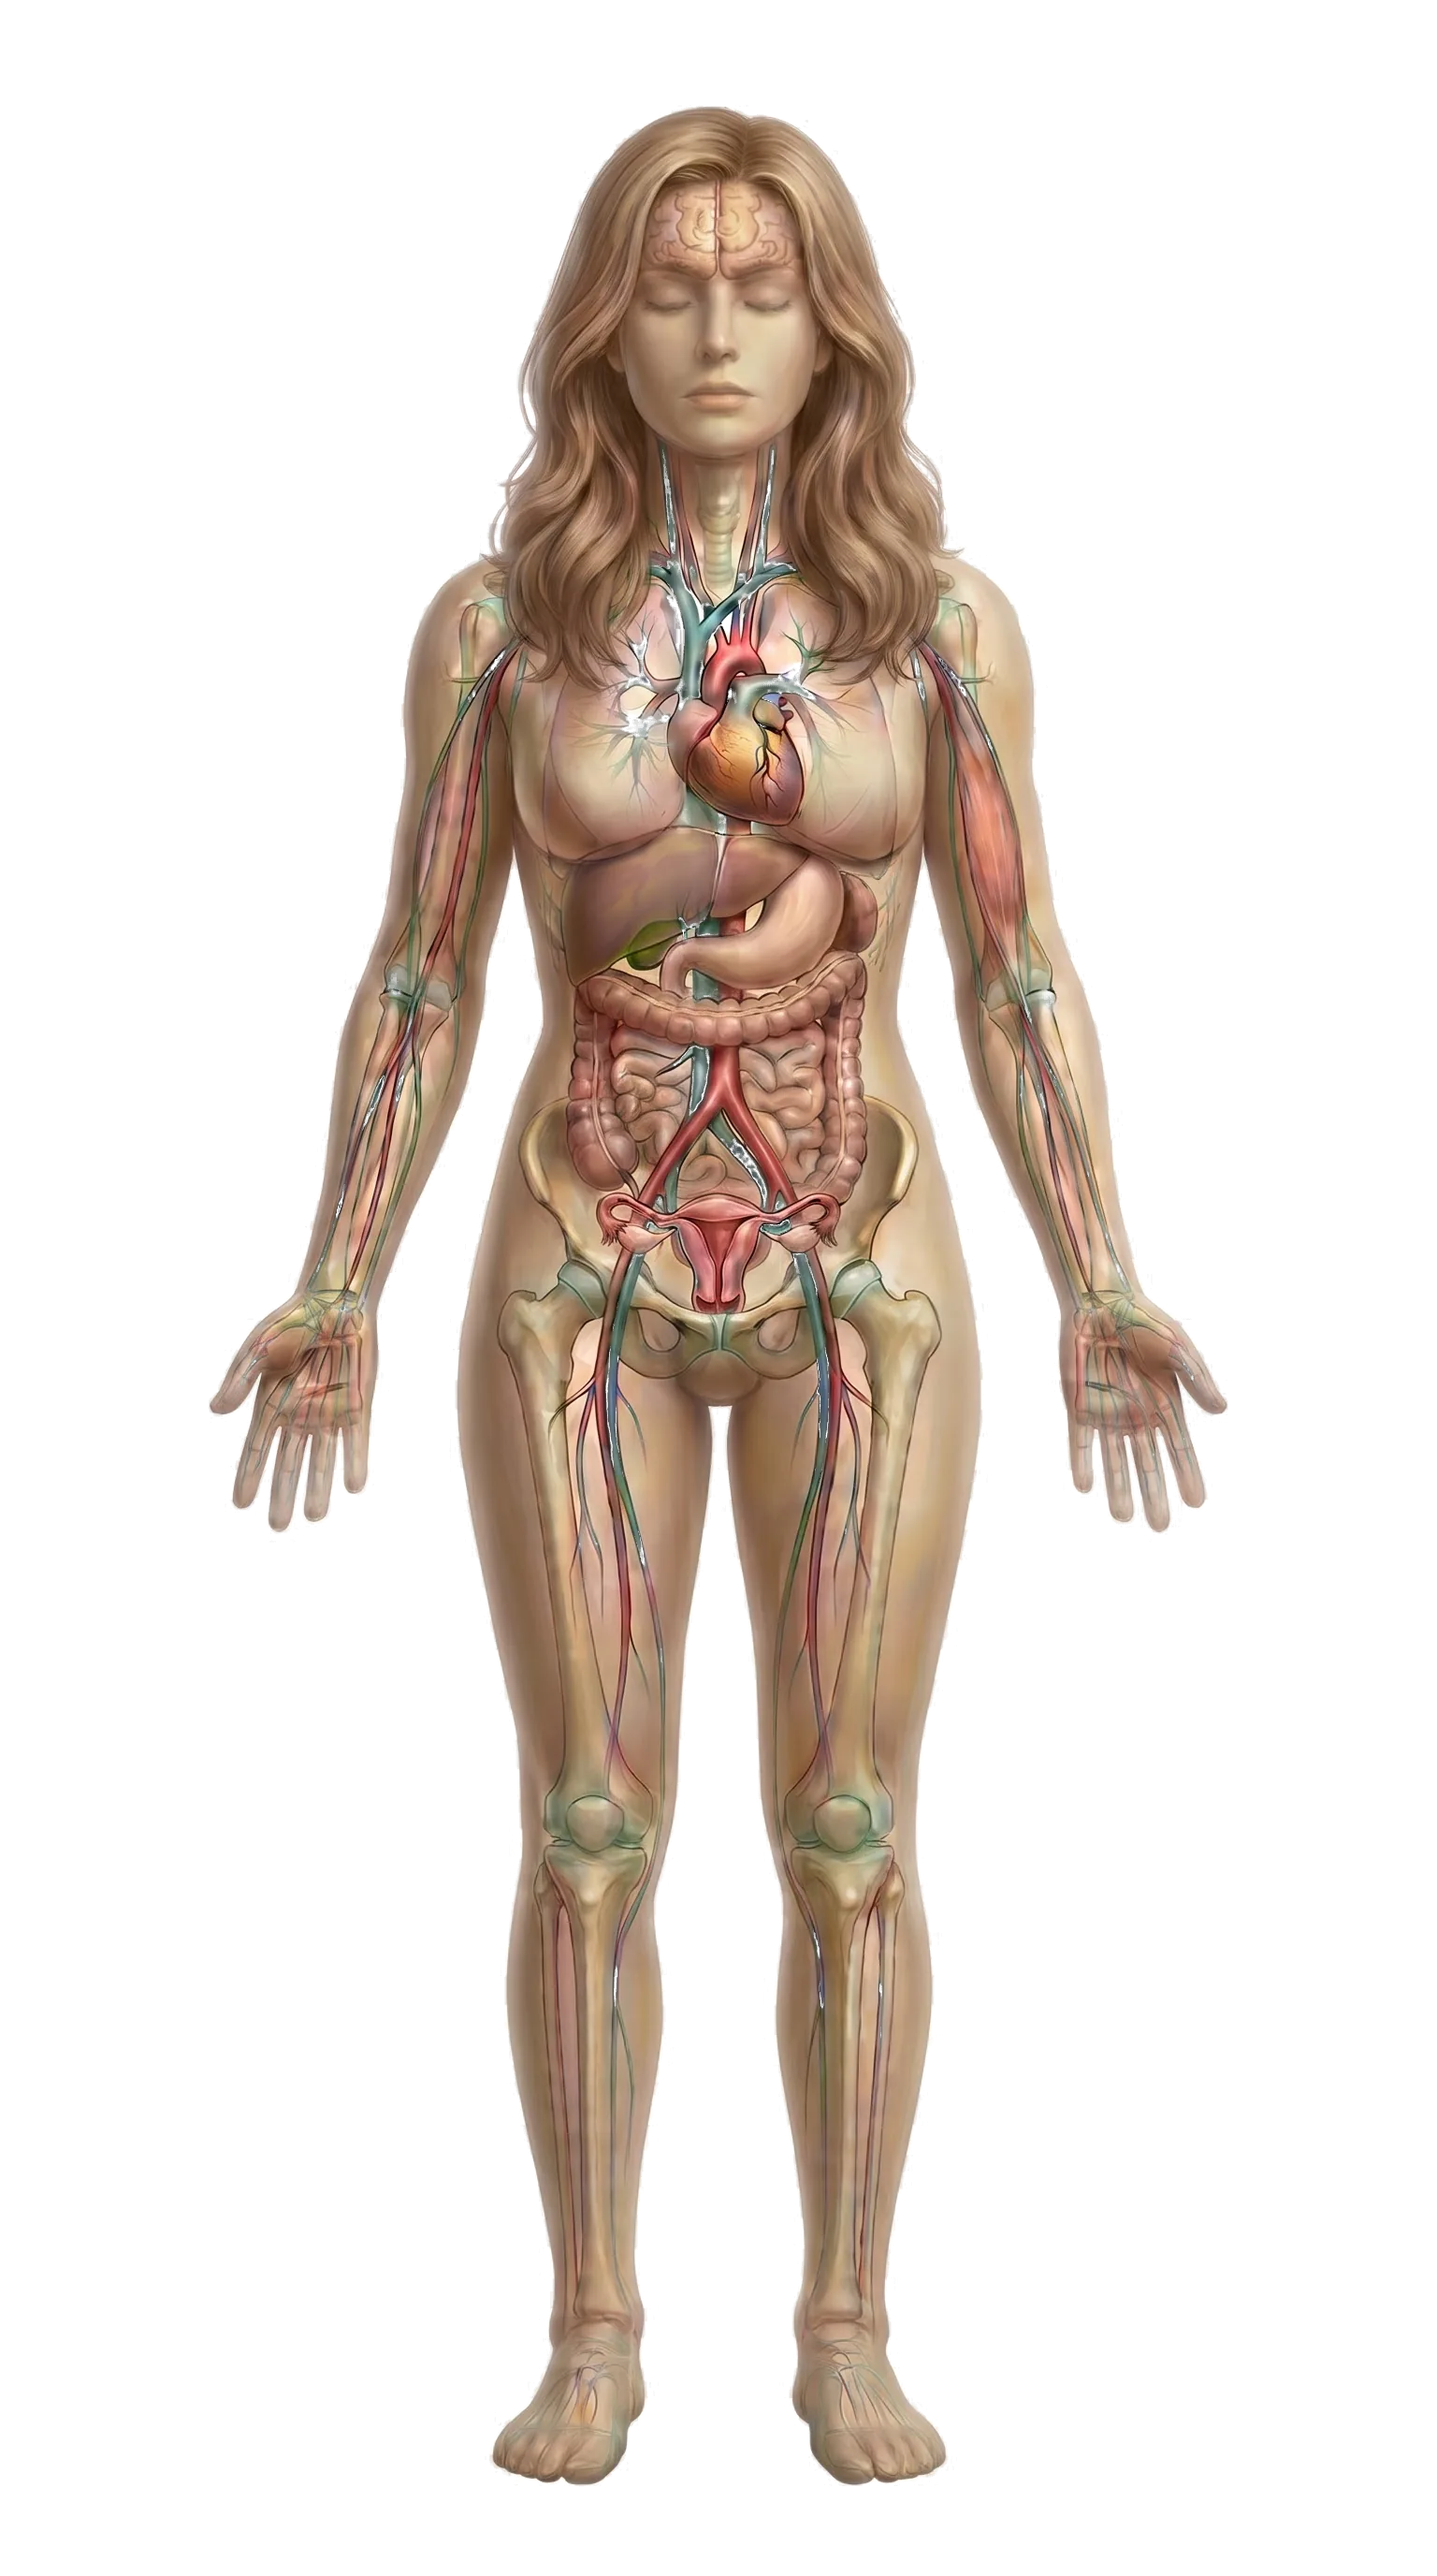
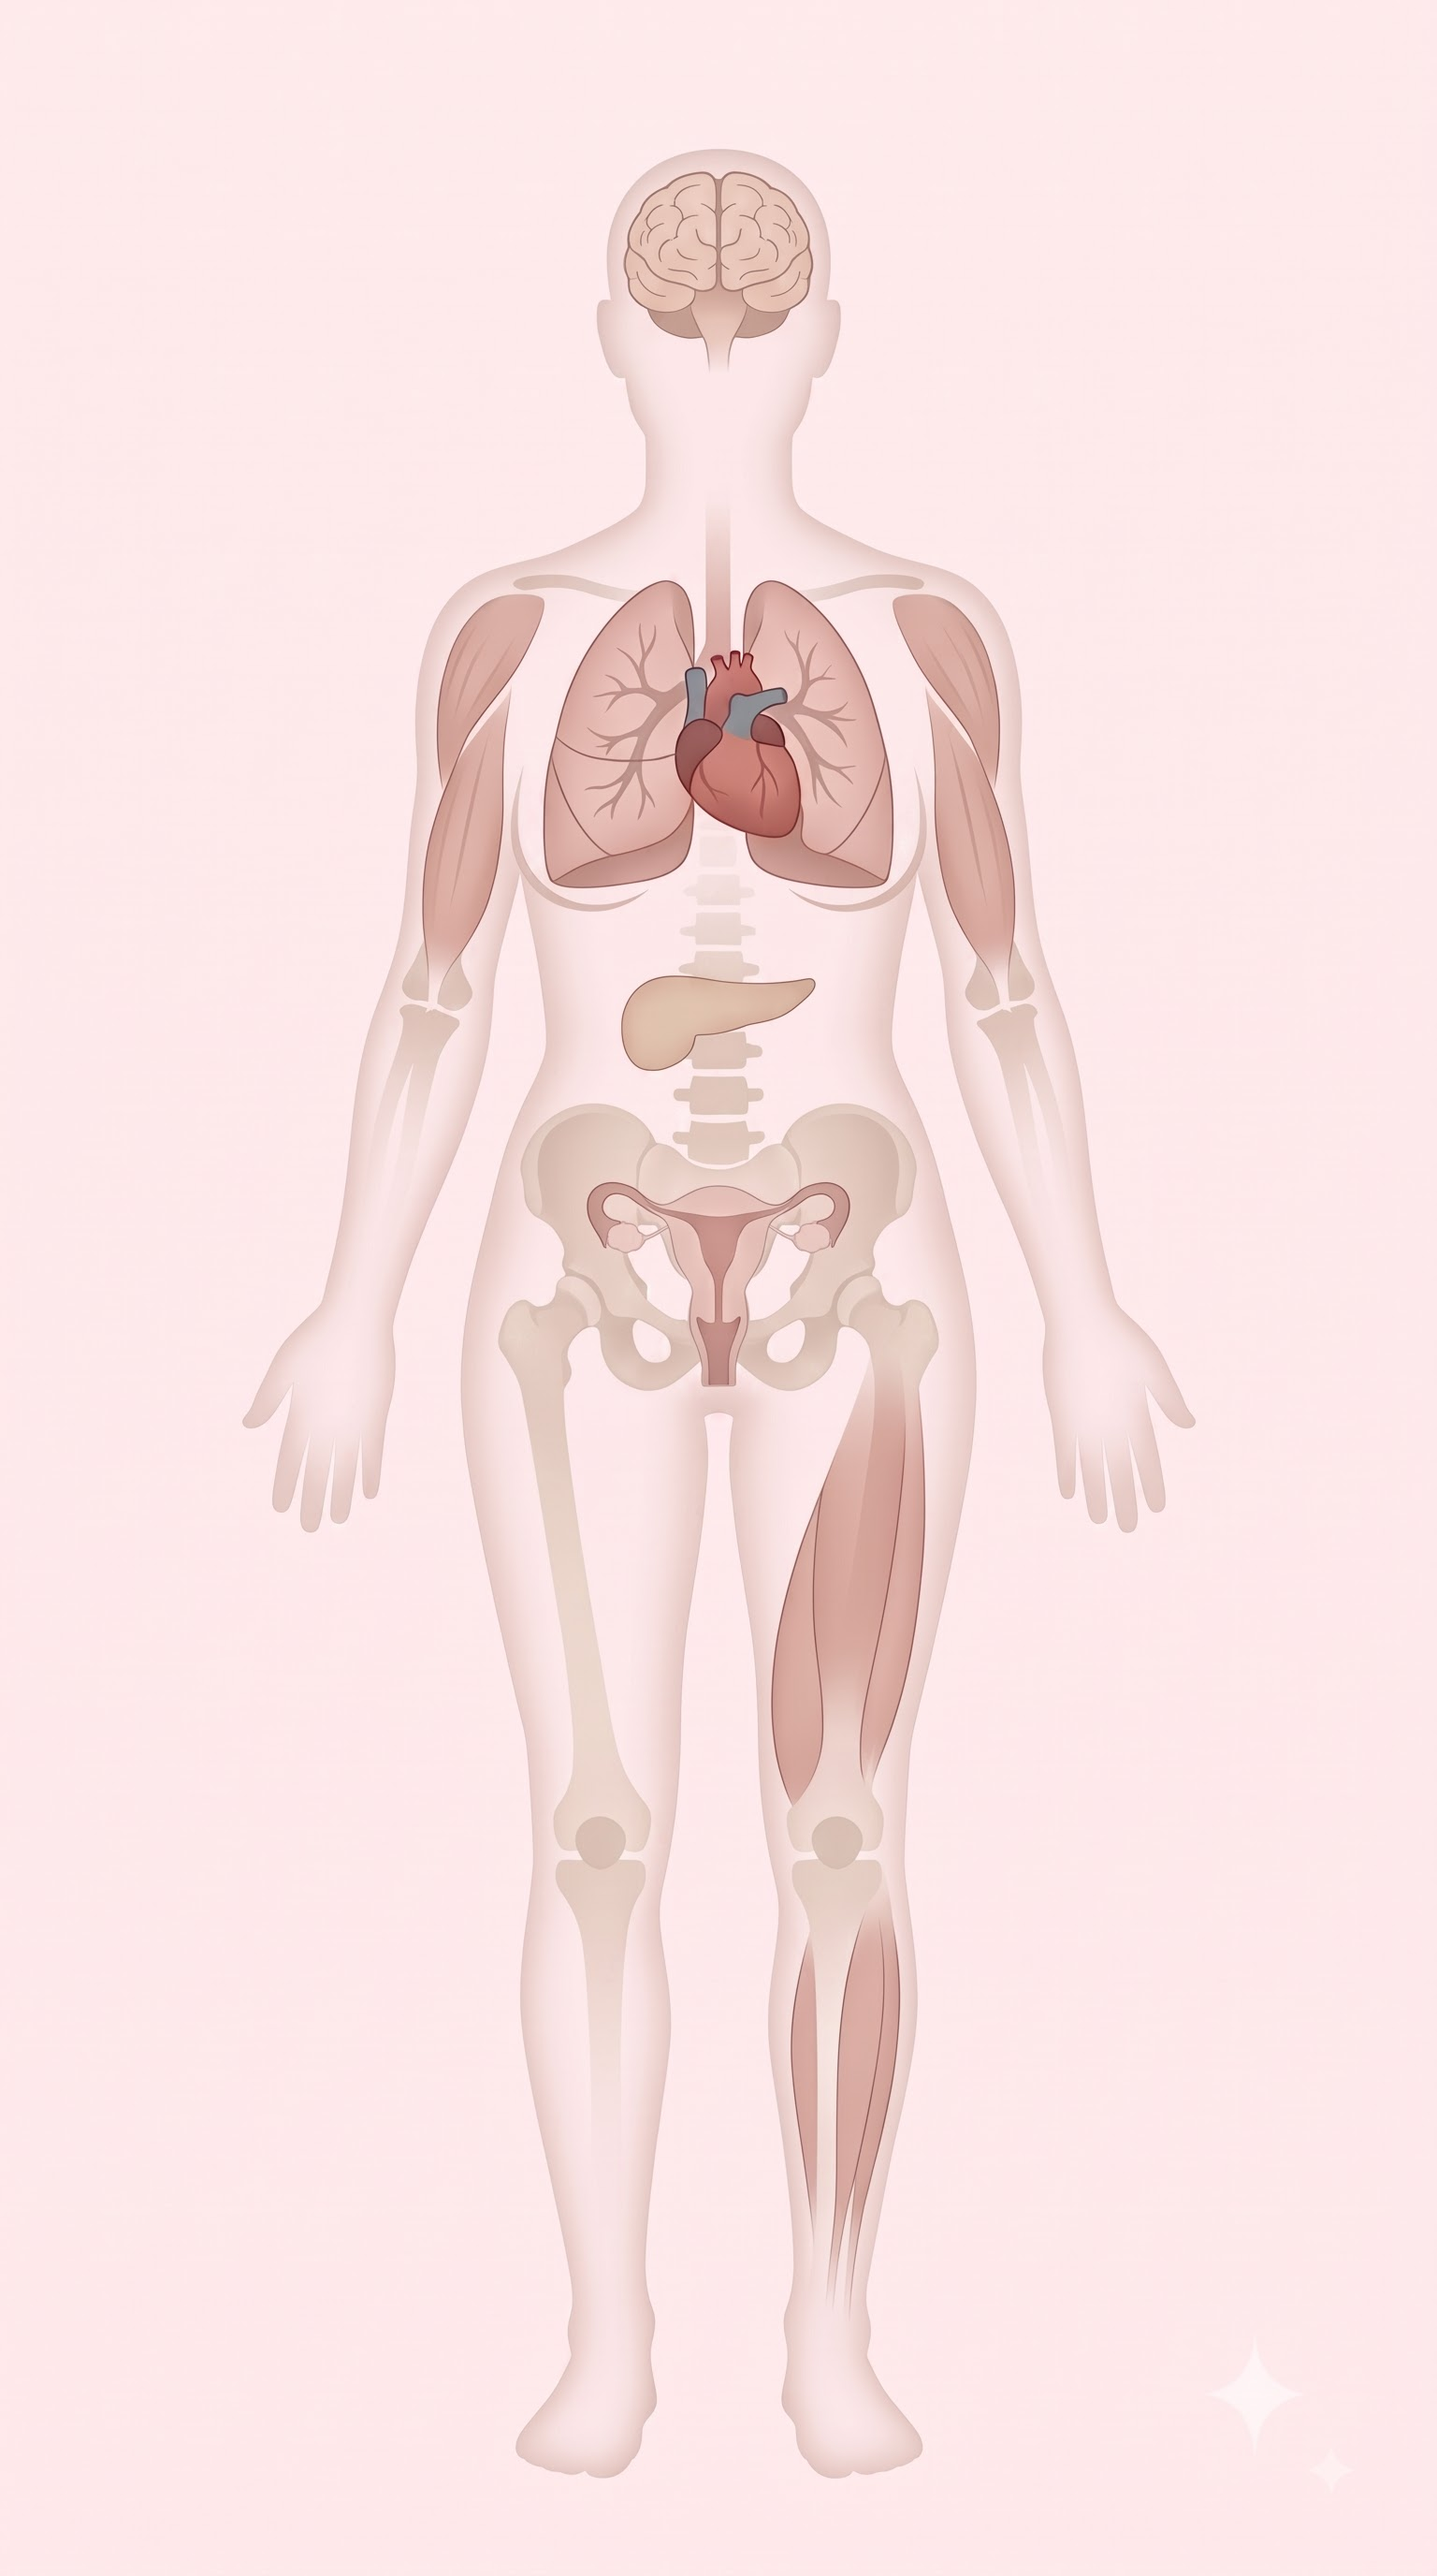
Enhance Mouth-Body Connection guide line brightness, contrast, and mobile layout padding

Changed region(s): [[0.1562, 0.0312, 0.8438, 0.9688]]

diff --git a/assets/js/mbc-connection.js b/assets/js/mbc-connection.js
@@ -258,12 +258,13 @@
       camG.setAttribute('transform', 'translate(' + camX.toFixed(2) + ' ' + camY.toFixed(2) + ') scale(' + z.toFixed(4) + ')');
 
       guide.style.stroke = gold;
-      guide.style.strokeWidth = (2.2 / Math.max(1, z) * 1.6).toFixed(2);
+      guide.style.strokeWidth = (3.6 / Math.max(1, z) * 1.6).toFixed(2);
       guide.style.strokeDasharray = '1';
       guide.style.strokeDashoffset = '0';
-      guide.style.opacity = (0.16 - 0.08 * outro).toFixed(3);
+      guide.style.opacity = (0.75 - 0.25 * outro).toFixed(3);
+      guide.style.filter = 'drop-shadow(0 0 4px rgba(198, 167, 94, 0.5))';
 
-      var segW = (2.4 / Math.max(1, z) * 1.6);
+      var segW = (4.2 / Math.max(1, z) * 1.6);
       segPathEls.forEach(function (pEl, k) {
         var destAccent = SYSTEMS[k].accent;
         var prog = k < i0 ? 1 : (k === i0 ? ef : 0);
@@ -272,50 +273,52 @@
         pEl.style.strokeWidth = segW.toFixed(2);
         pEl.style.strokeDasharray = '1';
         pEl.style.strokeDashoffset = (1 - prog).toFixed(4);
-        pEl.style.opacity = active ? (0.85 - 0.55 * outro).toFixed(3) : 0;
+        pEl.style.opacity = active ? (1.0 - 0.2 * outro).toFixed(3) : 0;
+        pEl.style.filter = 'drop-shadow(0 0 6px ' + destAccent + ')';
       });
 
       var travAccent = i0 < N ? SYSTEMS[i0].accent : SYSTEMS[N - 1].accent;
       trav.style.fill = travAccent;
-      trav.style.transform = 'translate(' + tx.toFixed(2) + 'px,' + ty.toFixed(2) + 'px) scale(' + (1.4 / Math.max(1, z) * 1.5).toFixed(3) + ')';
-      trav.style.opacity = (clamp((s - 0.04) * 12, 0, 1) * (0.9 - 0.7 * outro)).toFixed(3);
-      trav.style.filter = 'drop-shadow(0 0 6px ' + travAccent + ')';
+      trav.style.transform = 'translate(' + tx.toFixed(2) + 'px,' + ty.toFixed(2) + 'px) scale(' + (1.6 / Math.max(1, z) * 1.5).toFixed(3) + ')';
+      trav.style.opacity = (clamp((s - 0.04) * 12, 0, 1) * (1.0 - 0.3 * outro)).toFixed(3);
+      trav.style.filter = 'drop-shadow(0 0 8px ' + travAccent + ')';
 
       mouthG.style.opacity = (1 - 0.88 * ease(s)).toFixed(3);
 
       SYSTEMS.forEach(function (sys, i) {
         var idx = i + 1;
         var a = ease(Math.max(0, 1 - Math.abs(s - idx)));
-        var rest = 0.2 + 0.3 * ease(s) + 0.4 * outro;
+        var rest = 0.4 + 0.3 * ease(s) + 0.3 * outro;
         var lit = Math.max(rest, a);
         var k = (1 + 0.32 * a) / Math.max(0.7, z) * 1.2;
         var m = markerEls[i];
         m.g.setAttribute('transform', 'translate(' + sys.x + ' ' + sys.y + ') scale(' + k.toFixed(3) + ')');
-        m.g.style.color = a > 0.05 ? sys.accent : 'rgba(92,10,10,.4)';
-        m.g.style.opacity = (0.2 + 0.8 * lit).toFixed(3);
+        m.g.style.color = a > 0.05 ? sys.accent : 'rgba(92,10,10,.75)';
+        m.g.style.opacity = (0.5 + 0.5 * lit).toFixed(3);
         m.halo.style.fill = sys.accent;
-        m.halo.style.opacity = (0.22 * a).toFixed(3);
-        m.disc.style.stroke = a > 0.05 ? sys.accent : 'rgba(92,10,10,.28)';
-        m.disc.style.strokeWidth = (1 + a).toFixed(2);
+        m.halo.style.opacity = (0.35 * a).toFixed(3);
+        m.disc.style.stroke = a > 0.05 ? sys.accent : 'rgba(92,10,10,.65)';
+        m.disc.style.strokeWidth = (2.0 + 1.2 * a).toFixed(2);
         m.disc.style.fill = '#FBF6EF';
         m.text.style.fontFamily = "var(--font-body, 'Inter', sans-serif)";
         m.text.style.fontSize = '10px';
-        m.text.style.fontWeight = '600';
+        m.text.style.fontWeight = '700';
         m.text.style.letterSpacing = '1.2px';
         m.text.style.textTransform = 'uppercase';
-        m.text.style.fill = a > 0.4 ? sys.accent : 'rgba(92,10,10,.4)';
+        m.text.style.fill = a > 0.3 ? sys.accent : 'rgba(92,10,10,.75)';
         m.text.style.transform = 'translateY(' + (m.companion ? 66 : 34) + 'px)';
-        m.text.style.opacity = (a > 0.35 ? 1 : 0).toFixed(3);
+        m.text.style.opacity = (a > 0.25 ? 1 : 0).toFixed(3);
 
         if (m.companion) {
-          m.companion.style.stroke = a > 0.05 ? sys.accent : 'rgba(92,10,10,.32)';
-          m.companion.style.strokeWidth = (1 + 0.4 * a).toFixed(2);
+          m.companion.style.stroke = a > 0.05 ? sys.accent : 'rgba(92,10,10,.65)';
+          m.companion.style.strokeWidth = (1.8 + 0.6 * a).toFixed(2);
           m.companion.style.strokeLinejoin = 'round';
-          m.companion.style.opacity = (0.32 + 0.5 * lit).toFixed(3);
+          m.companion.style.opacity = (0.65 + 0.35 * lit).toFixed(3);
         }
 
         if (m.bracketPath) {
-          m.bracketPath.style.opacity = (0.2 + 0.8 * lit).toFixed(3);
+          m.bracketPath.style.opacity = (0.65 + 0.35 * lit).toFixed(3);
+          m.bracketPath.style.strokeWidth = '2px';
         }
 
         var pd = Math.abs(s - idx);

diff --git a/assets/css/mbc-connection.css b/assets/css/mbc-connection.css
@@ -134,7 +134,7 @@
   text-transform: uppercase;
   color: rgba(92, 10, 10, 0.42);
 }
-.mbcc-hint span.line { display: block; width: 22px; height: 1px; background: rgba(92, 10, 10, 0.3); }
+.mbcc-hint span.line { display: block; width: 28px; height: 2px; background: var(--color-gold, #C6A75E); opacity: 0.9; }
 
 .mbcc-panel-num-row {
   display: flex;
@@ -143,7 +143,7 @@
   margin-bottom: 12px;
 }
 .mbcc-panel-num { font-size: 0.72rem; font-weight: 700; letter-spacing: 0.14em; }
-.mbcc-panel-label { font-size: 0.68rem; font-weight: 600; letter-spacing: 0.2em; text-transform: uppercase; color: rgba(92, 10, 10, 0.45); }
+.mbcc-panel-label { font-size: 0.68rem; font-weight: 600; letter-spacing: 0.2em; text-transform: uppercase; color: rgba(92, 10, 10, 0.75); }
 
 .mbcc-panel-title {
   font-family: var(--font-heading, 'Playfair Display', serif);
@@ -152,7 +152,7 @@
   line-height: 1.08;
   margin: 0 0 8px;
 }
-.mbcc-panel-rule { height: 1px; width: 60px; margin: 0 0 16px; opacity: 0.55; }
+.mbcc-panel-rule { height: 2px; width: 60px; margin: 0 0 16px; opacity: 0.9; }
 .mbcc-panel-headline {
   font-family: var(--font-heading, 'Playfair Display', serif);
   font-style: italic;
